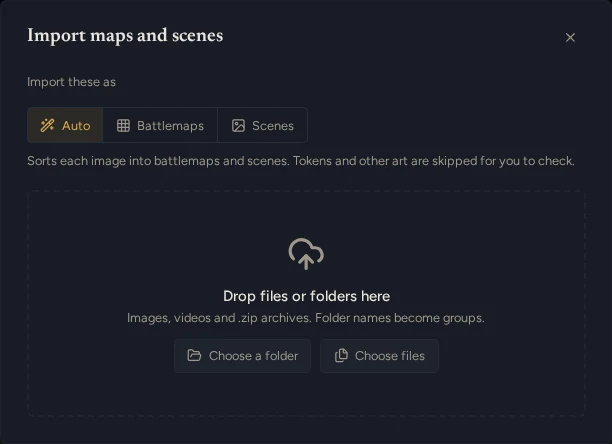
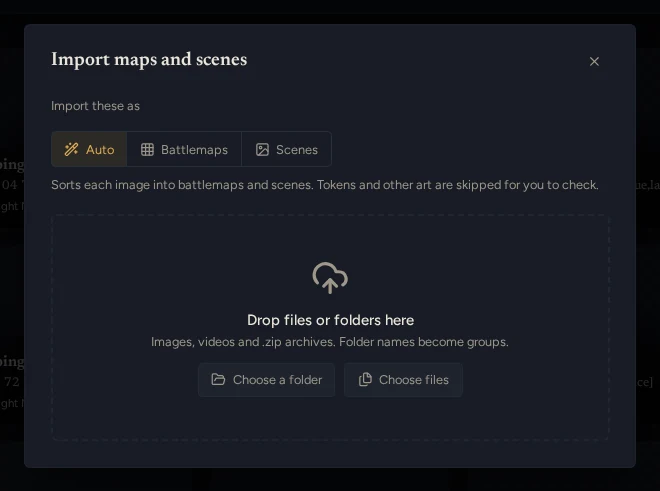
docs: screenshots keep space around dialogs and panels, without the art behind them

diff --git a/e2e/screenshots/docs.spec.ts b/e2e/screenshots/docs.spec.ts
@@ -32,10 +32,38 @@ const DIRS: StorageDirs = {
   },
 };
 
+/** Space kept around an element, so the shot shows it sitting in the app */
+const PAD = 24;
+
+/** The whole window, or an element with PAD of the window around it (clamped to it) */
 async function shot(target: Page | Locator, name: string): Promise<void> {
-  await target.screenshot({
-    path: path.join(OUT, `${name}.png`),
+  const file = path.join(OUT, `${name}.png`);
+  if ("goto" in target) {
+    await target.screenshot({ path: file, animations: "disabled" });
+    return;
+  }
+  const page = target.page();
+  // The padding shows the app behind the element, but not its art: that would need
+  // crediting too (design/brand.md#screenshots)
+  await target.evaluate((el) => {
+    for (const media of document.querySelectorAll<HTMLElement>("img, video")) {
+      if (!el.contains(media)) media.style.visibility = "hidden";
+    }
+  });
+  const box = await target.boundingBox();
+  const view = page.viewportSize();
+  if (!box || !view) throw new Error(`${name}: nothing to capture`);
+  const x = Math.max(0, box.x - PAD);
+  const y = Math.max(0, box.y - PAD);
+  await page.screenshot({
+    path: file,
     animations: "disabled",
+    clip: {
+      x,
+      y,
+      width: Math.min(view.width, box.x + box.width + PAD) - x,
+      height: Math.min(view.height, box.y + box.height + PAD) - y,
+    },
   });
 }
 

diff --git a/design/brand.md b/design/brand.md
@@ -103,6 +103,8 @@ uv run python -m scripts.demo.import_library http://127.0.0.1:8123 $W/import $W/
 DEMO_URL=http://127.0.0.1:8123 DEMO_HELD=$W/held npm run docs:screenshots
 ```
 
+A dialog or panel is captured with 24 px of the app around it (`PAD`), and every image outside it is hidden first, so the padding never shows art that would need its own credit.
+
 `docs:screenshots` writes PNGs to `e2e/test-results-screenshots/png/` and converts them to `docs/public/screenshots/*.webp`; check them before committing. Each page credits the art visible in its shot under the image.
 
 ## Directions tried and rejected
